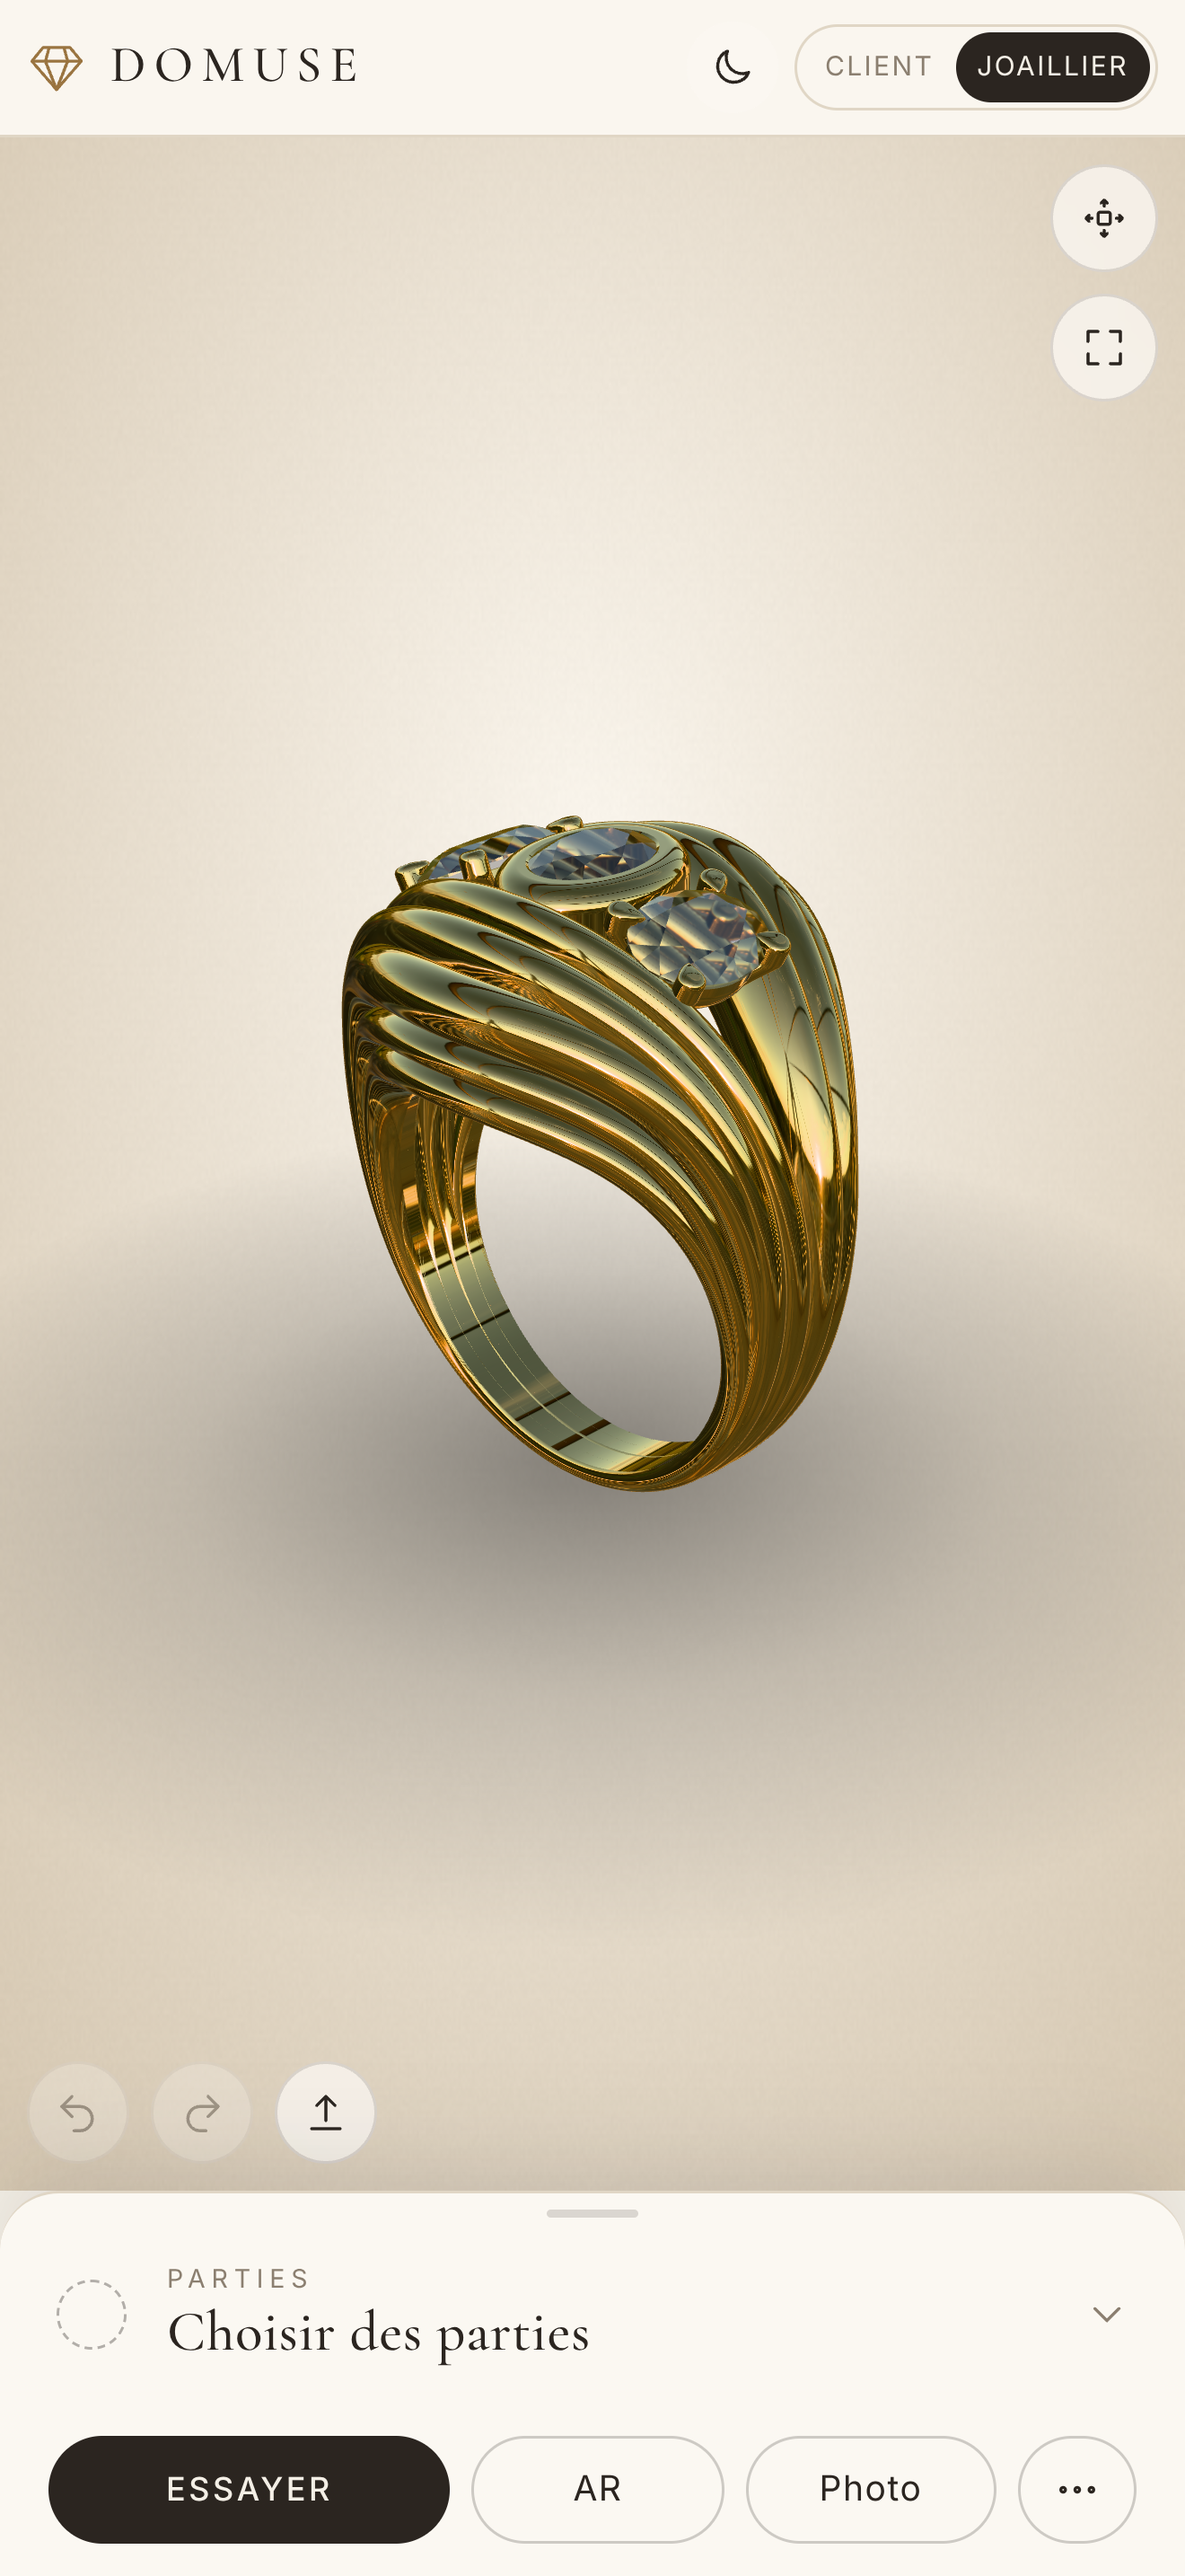
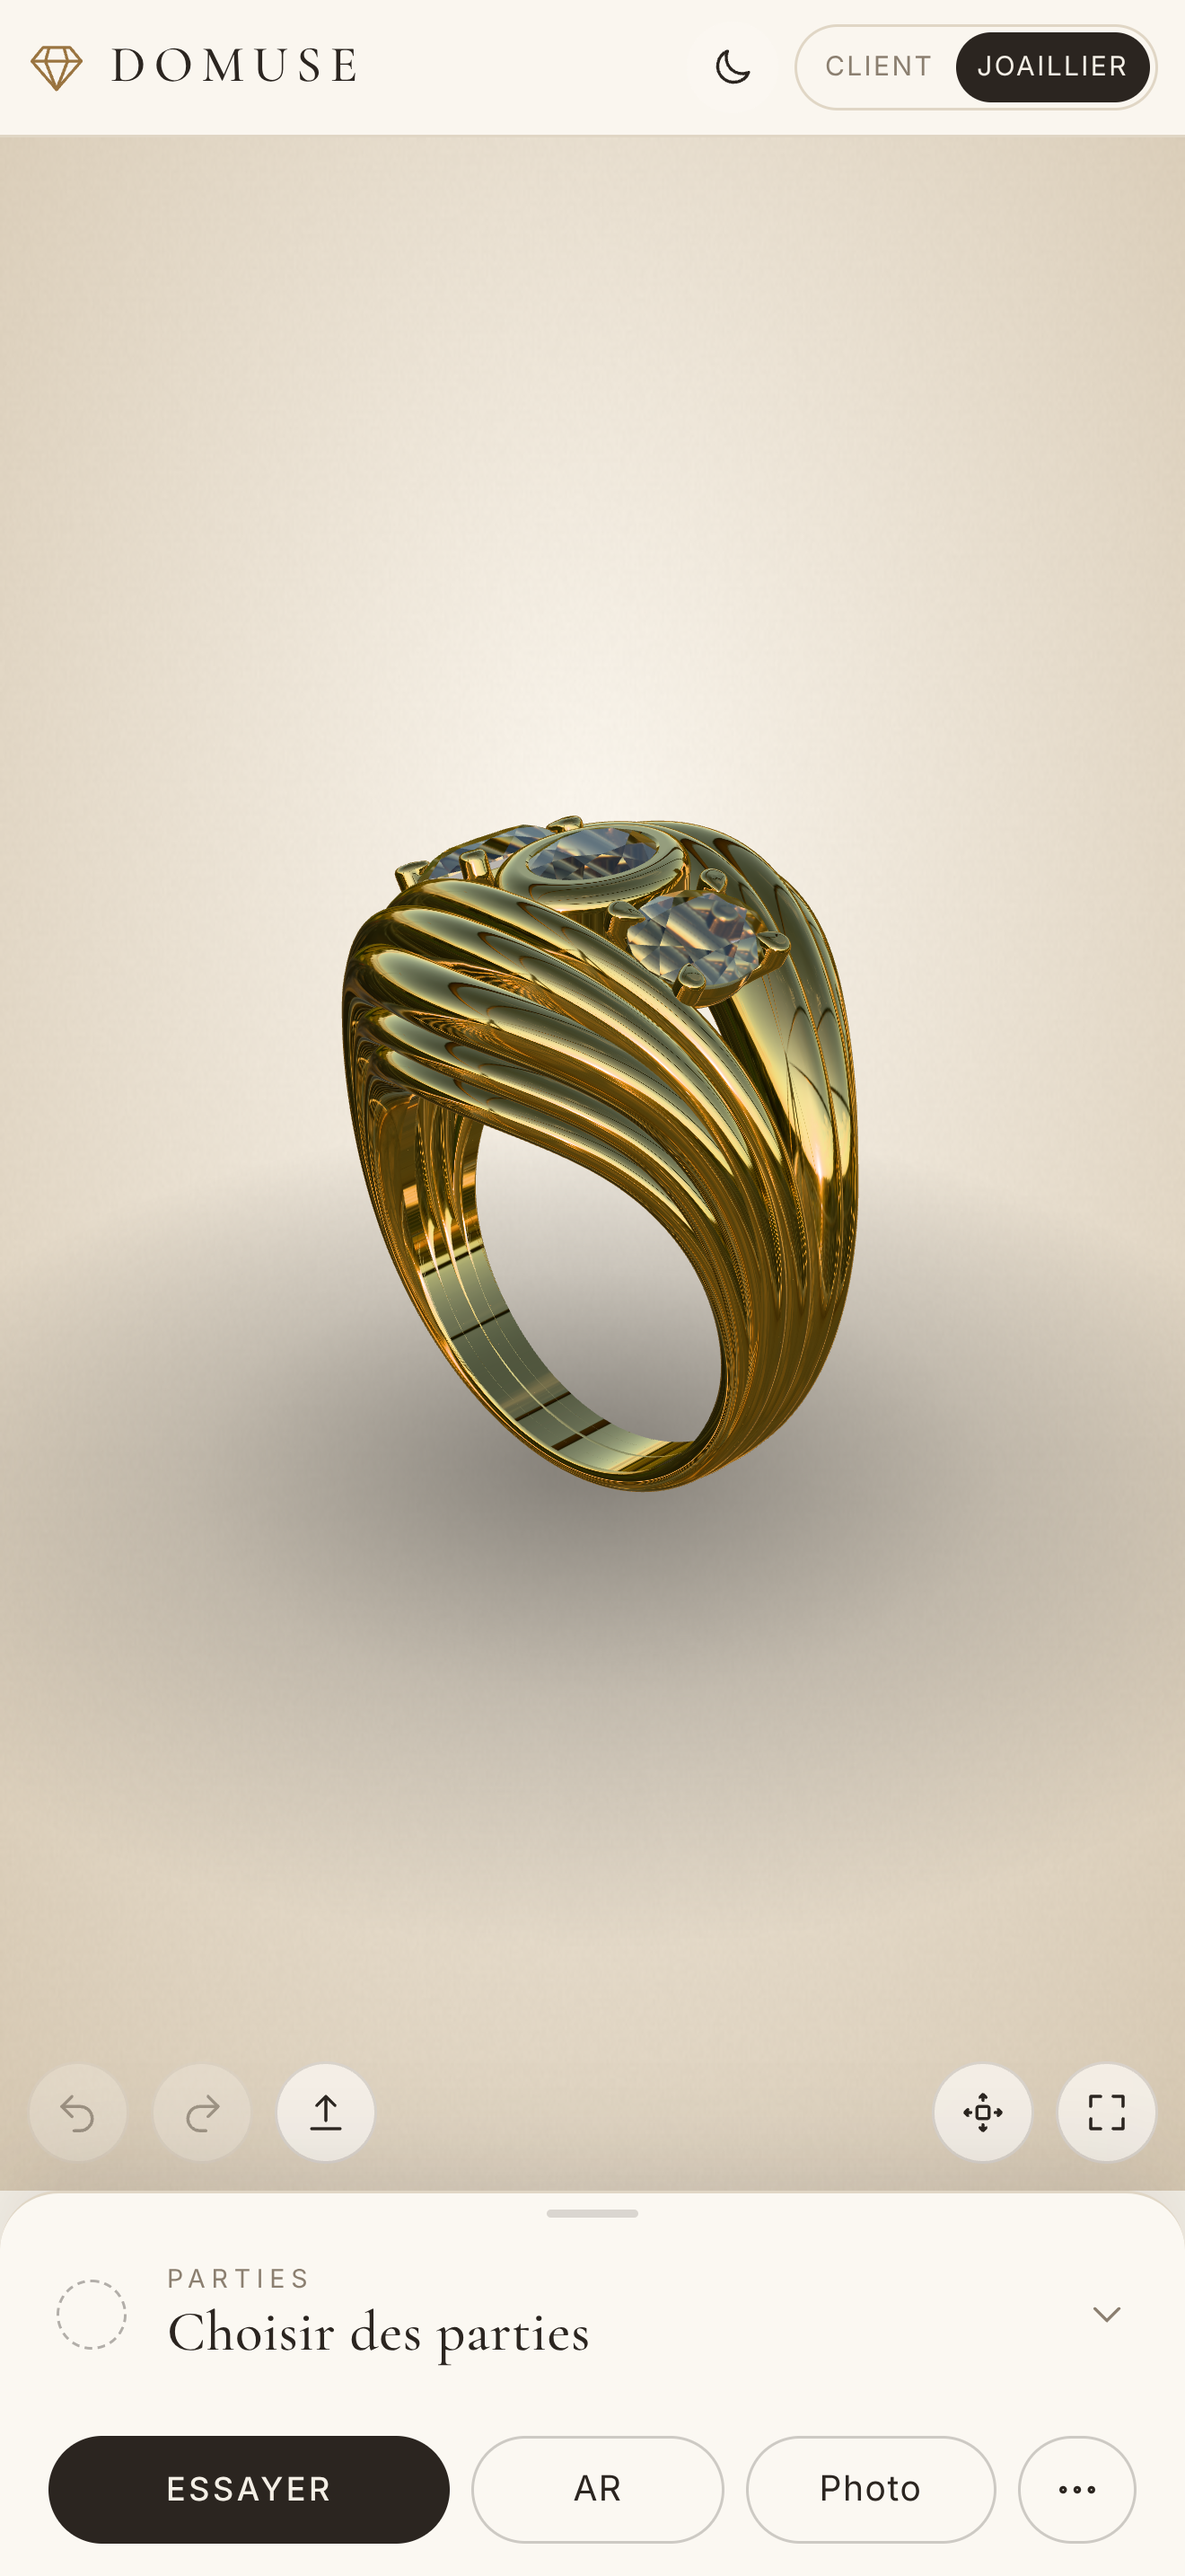
Outils de vue en ligne en bas à droite ; plus de texte « quitter le plein écran »
Claude-Session: https://claude.ai/code/session_011GfdPs48k7LdCE9uPRnk2h

Changed region(s): [[0.8697, 0.0621, 0.9939, 0.1552], [0.7765, 0.7758, 0.9939, 0.8379]]

diff --git a/src/ui/ui.js b/src/ui/ui.js
@@ -22,6 +22,7 @@ const ICON = {
   views: ic('<rect x="4" y="4" width="6.5" height="6.5" rx="1"/><rect x="13.5" y="4" width="6.5" height="6.5" rx="1"/><rect x="4" y="13.5" width="6.5" height="6.5" rx="1"/><rect x="13.5" y="13.5" width="6.5" height="6.5" rx="1"/>'),
   light: ic('<path d="M9 18h6M10 21h4"/><path d="M12 3a6 6 0 0 0-3.5 10.9c.6.5 1 1.2 1 2V16h5v-.1c0-.8.4-1.5 1-2A6 6 0 0 0 12 3Z"/>'),
   rotate: ic('<path d="M20 12a8 8 0 1 1-2.7-6"/><path d="M20 4.5V9h-4.5"/>'),
+  fullExit: ic('<path d="M9 4v5H4M15 4v5h5M9 20v-5H4M15 20v-5h5"/>'),
   full: ic('<path d="M4 9V4h5M20 9V4h-5M4 15v5h5M20 15v5h-5"/>'),
   undo: ic('<path d="M9 14 4 9l5-5"/><path d="M4 9h9a6 6 0 0 1 0 12h-3"/>'),
   redo: ic('<path d="m15 14 5-5-5-5"/><path d="M20 9h-9a6 6 0 0 0 0 12h3"/>'),
@@ -78,14 +79,13 @@ export class UI {
             <button class="icon-btn" ${FEATURES.lighting ? '' : 'hidden'} data-pop-btn="env" aria-label="${t('environment')}" title="${t('environment')}">${ICON.light}</button>
             <button class="icon-btn" data-a="explode" aria-pressed="false" aria-label="${t('explode')}" title="${t('explode')}">${ICON.explode}</button>
             <button class="icon-btn" ${FEATURES.autoRotate ? '' : 'hidden'} data-a="autorotate" aria-pressed="false" aria-label="${t('autoRotate')}" title="${t('autoRotate')}">${ICON.rotate}</button>
-            <button class="icon-btn" data-a="present" aria-pressed="false" aria-label="${t('present')}" title="${t('present')}">${ICON.full}</button>
+            <button class="icon-btn" data-a="present" aria-pressed="false" aria-label="${t('present')}" title="${t('present')}"><span class="i-full">${ICON.full}</span><span class="i-exit">${ICON.fullExit}</span></button>
           </div>
           <div class="dock">
             <button class="icon-btn" data-a="undo" aria-label="${t('undo')}" title="${t('undo')}">${ICON.undo}</button>
             <button class="icon-btn" data-a="redo" aria-label="${t('redo')}" title="${t('redo')}">${ICON.redo}</button>
             <button class="icon-btn" data-a="open" aria-label="${t('open')}" title="${t('open')}">${ICON.open}</button>
           </div>
-          <button class="btn present-exit" data-a="present-exit" aria-label="${t('exitPresent')}">${t('exitPresent')}</button>
           <div class="pop" data-pop="views" hidden></div>
           <div class="pop" data-pop="env" hidden></div>
           <div class="hint" data-r="hint">${t('tapHint')}</div>

diff --git a/src/style.css b/src/style.css
@@ -432,3 +432,13 @@ dialog { border-radius: 20px; }
 .dot[aria-pressed='true'] span.gemic { box-shadow: none !important; filter: drop-shadow(0 0 0 transparent) drop-shadow(0 0 2.5px var(--accent)) drop-shadow(0 0 1.5px var(--accent)); transform: scale(1.12); }
 .sw-stack i.gemic { width: 28px; height: 28px; }
 .acc-h .sw.gemic { width: 32px; height: 32px; }
+
+/* Outils d'angle de vue : en ligne, en bas à droite (explosion, plein écran) ; plus de libellé « quitter » */
+.hud-right { top: auto; bottom: 10px; flex-direction: row; align-items: center; }
+.hud-right .icon-btn { width: 38px; height: 38px; }
+.app[data-present='1'] .hud-right { top: auto; bottom: calc(14px + var(--safe-b)); right: 14px; }
+.present-exit { display: none !important; }
+[data-a=present] .i-exit { display: none; }
+[data-a=present][aria-pressed='true'] .i-full { display: none; }
+[data-a=present][aria-pressed='true'] .i-exit { display: inline; }
+.app[data-mode='client'] .hud-right { bottom: 14px; }

diff --git a/DECISIONS.md b/DECISIONS.md
@@ -53,3 +53,4 @@
 - **Feature flags** (`src/config/features.js`) : rotation automatique, choix de l'angle de vue et gestion des lumières sont désactivés (boutons masqués, rotation coupée en Client et Joaillier) ; le code reste, il suffit de passer le flag à `true`.
 - **Pastilles de couleur des pierres** : petites gemmes facettées (SVG généré, `src/materials/gemicon.js`) à la place des ronds — palette, en-têtes d'accordéon et liste des parties.
 - **Rendu (PBR)** : MeshPhysicalMaterial (métal metalness 1, pierres en transmission/IOR/dispersion) + éclairage par image HDRI (IBL). Le HDRI « Ville, plein soleil » reçoit une balance des blancs chaude pour l'éclairage seulement (le fond reste fidèle) : l'or est moins verdâtre quand il reflète le ciel bleu.
+- **Barre d'outils de vue** : explosion + plein écran en ligne en bas à droite ; libellé « Quitter le plein écran » supprimé (le bouton plein écran devient l'icône « réduire » en mode plein écran).
